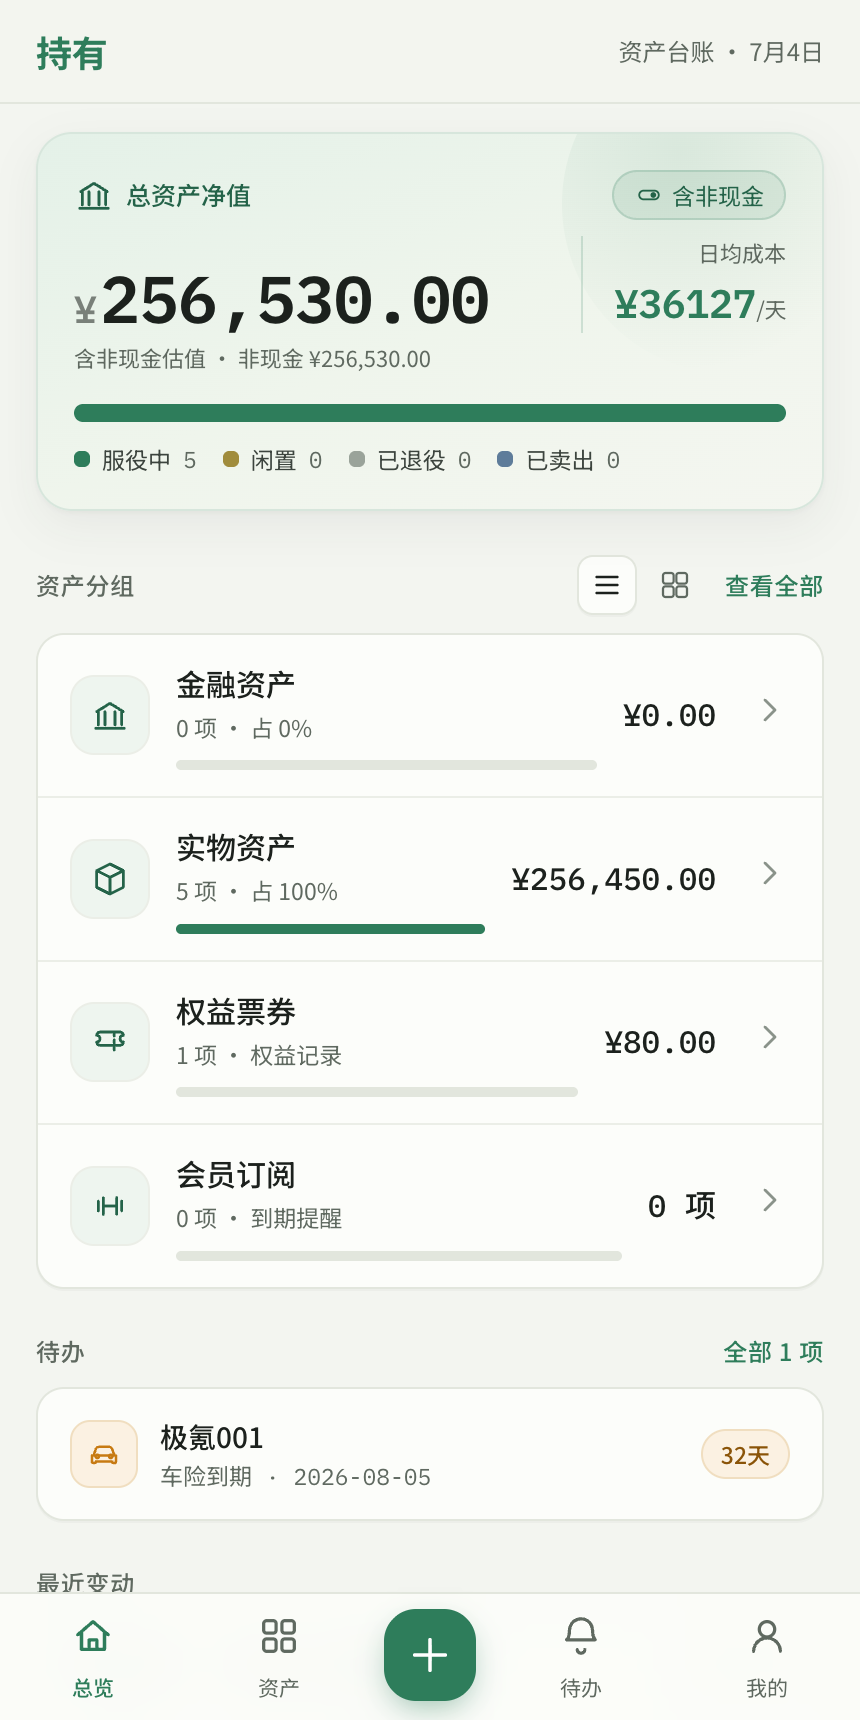
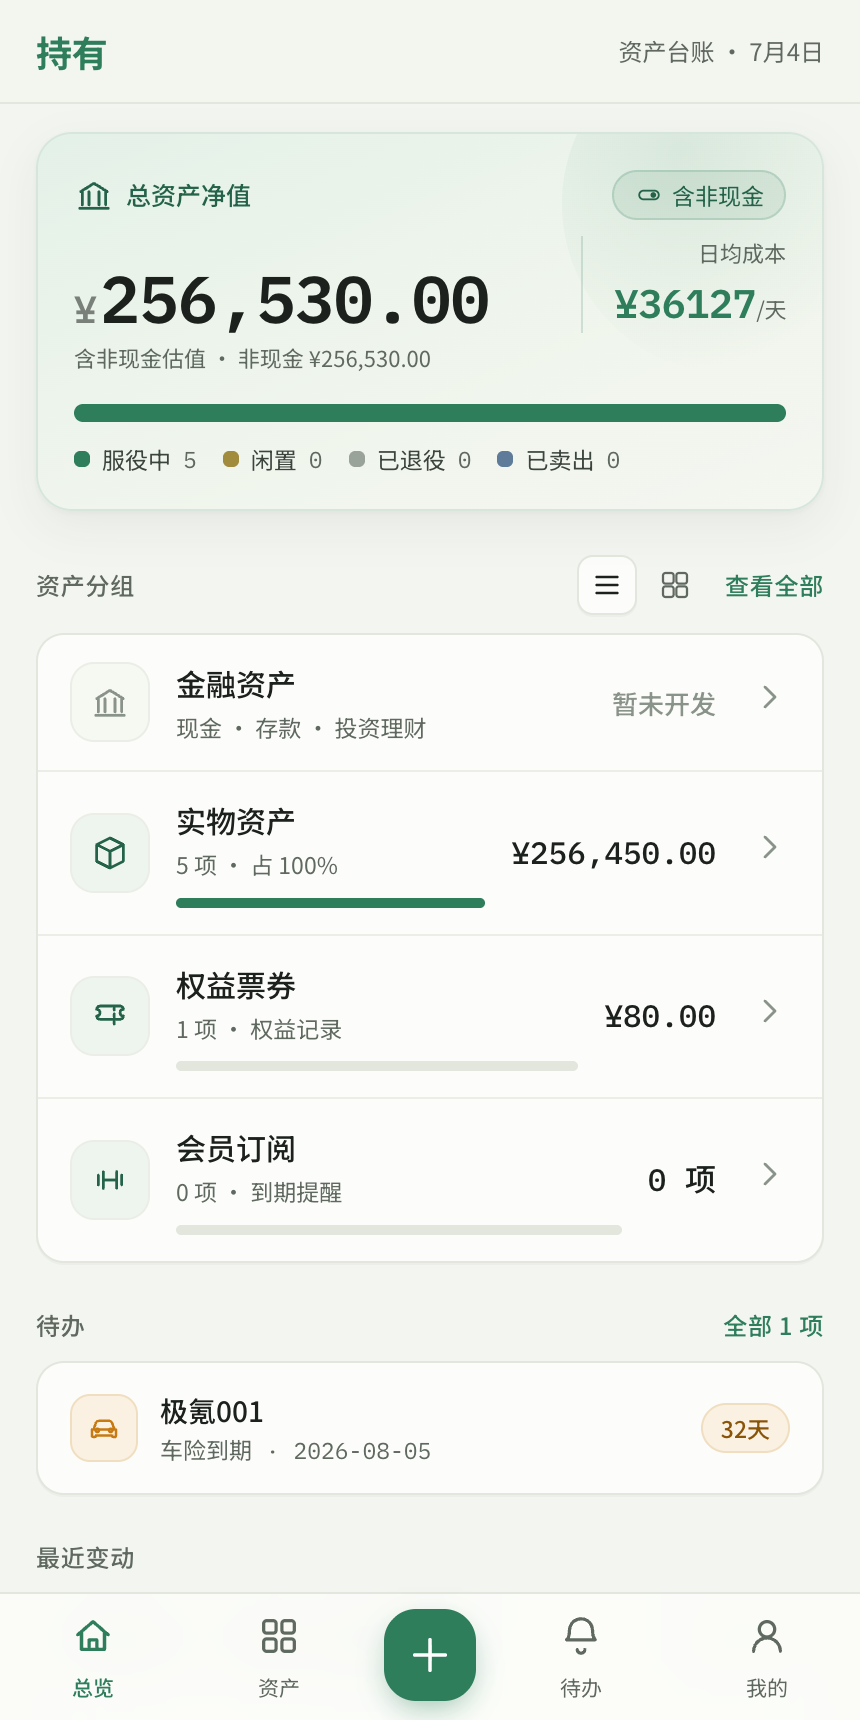
Mark financial assets as upcoming

diff --git a/demo/index.html b/demo/index.html
@@ -466,7 +466,7 @@ function svg(n){return '<svg aria-hidden="true" focusable="false" viewBox="0 0 2
 
 /* groups */
 const GROUPS=[
-  {id:'financial',name:'金融资产',icon:'bank',sub:'现金 · 存款 · 投资理财'},
+  {id:'financial',name:'金融资产',icon:'bank',sub:'现金 · 存款 · 投资理财',placeholder:true,placeholderText:'暂未开发'},
   {id:'physical',name:'实物资产',icon:'box',sub:'数码 · 家居 · 交通'},
   {id:'entitle',name:'权益票券',icon:'ticket',sub:'里程 · 礼品卡 · 票券'},
   {id:'member',name:'会员订阅',icon:'member',sub:'会员 · 订阅 · 到期提醒'},
@@ -684,12 +684,12 @@ function viewOverview(){
   const legend=['active','idle','retired','sold'].map(k=>'<span class="it"><span class="d" style="background:'+segColor[k]+'"></span>'+STATUS[k].label+' <span class="n">'+sc[k]+'</span></span>').join('');
   const nw=netWorth();
   const groups=GROUPS.map(g=>{
-    if(g.placeholder)return '<div class="group-row ph" data-act="nav" data-arg="invest" role="button" tabindex="0" aria-label="投资理财，即将上线"><div class="ic">'+svg(g.icon)+'</div><div class="body"><div class="nm">'+g.name+'</div><div class="sub">'+g.sub+'</div></div><div class="right"><div class="val">即将上线</div></div><div class="chev">'+svg('chevR')+'</div></div>';
+    if(g.placeholder){const p=g.placeholderText||'即将上线';return '<div class="group-row ph" data-act="nav" data-arg="invest" role="button" tabindex="0" aria-label="'+g.name+'，'+p+'"><div class="ic">'+svg(g.icon)+'</div><div class="body"><div class="nm">'+g.name+'</div><div class="sub">'+g.sub+'</div></div><div class="right"><div class="val">'+p+'</div></div><div class="chev">'+svg('chevR')+'</div></div>';}
     const v=groupValue(g.id),cnt=groupAssets(g.id).length,pct=pctOf(v,nw);
     return '<div class="group-row" data-act="group" data-arg="'+g.id+'" role="button" tabindex="0" aria-label="'+g.name+'，'+groupValueText(g.id,v)+'"><div class="ic">'+svg(g.icon)+'</div><div class="body"><div class="nm">'+g.name+'</div><div class="sub">'+groupSubText(g.id,cnt,pct)+'</div><div class="sharebar"><i style="width:'+pct+'%"></i></div></div><div class="right"><div class="val">'+groupValueText(g.id,v)+'</div></div><div class="chev">'+svg('chevR')+'</div></div>';
   }).join('');
   const groupCards=GROUPS.map(g=>{
-    if(g.placeholder)return '<div class="gcard ph" data-act="nav" data-arg="invest" role="button" tabindex="0" aria-label="投资理财，即将上线"><div class="top"><div class="ic">'+svg(g.icon)+'</div><div class="pct">即将上线</div></div><div class="nm">'+g.name+'</div><div class="cnt">'+g.sub+'</div><div class="val">— —</div><div class="sharebar"><i style="width:0%"></i></div></div>';
+    if(g.placeholder){const p=g.placeholderText||'即将上线';return '<div class="gcard ph" data-act="nav" data-arg="invest" role="button" tabindex="0" aria-label="'+g.name+'，'+p+'"><div class="top"><div class="ic">'+svg(g.icon)+'</div><div class="pct">'+p+'</div></div><div class="nm">'+g.name+'</div><div class="cnt">'+g.sub+'</div><div class="val">— —</div><div class="sharebar"><i style="width:0%"></i></div></div>';}
     const v=groupValue(g.id),cnt=groupAssets(g.id).length,pct=pctOf(v,nw);
     return '<div class="gcard" data-act="group" data-arg="'+g.id+'" role="button" tabindex="0" aria-label="'+g.name+'，'+groupValueText(g.id,v)+'"><div class="top"><div class="ic">'+svg(g.icon)+'</div><div class="pct">'+groupPctText(g.id,pct,v)+'</div></div><div class="nm">'+g.name+'</div><div class="cnt">'+groupSubText(g.id,cnt,pct)+'</div><div class="val num">'+groupValueText(g.id,v)+'</div><div class="sharebar"><i style="width:'+pct+'%"></i></div></div>';
   }).join('');
@@ -941,8 +941,8 @@ function viewAction(){
 
 /* ---------- Invest placeholder ---------- */
 function viewInvest(){
-  appbar('投资理财',{back:'overview'});
-  setScreen('<div class="empty-big"><div class="ic">'+svg('invest')+'</div><div class="t">投资理财 · 即将上线</div><div class="d">持仓、成本、市值与盈亏的统一视图，<br/>正在路上。先添加现金、实物与权益资产吧。</div><a class="cta" data-act="nav" data-arg="action" role="button" tabindex="0">去添加资产</a></div>');
+  appbar('金融资产',{back:'overview'});
+  setScreen('<div class="empty-big"><div class="ic">'+svg('bank')+'</div><div class="t">金融资产 · 暂未开发</div><div class="d">现金、存款、基金和持仓需要单独的账户与收益口径，<br/>暂不混入当前资产生命周期视图。</div></div>');
 }
 
 /* ---------- Me ---------- */

diff --git a/reports/seeded_initialization_REPORT.html b/reports/seeded_initialization_REPORT.html
@@ -101,7 +101,7 @@
     <thead><tr><th>Metric</th><th>Value</th></tr></thead>
     <tbody>
       <tr><td>总资产净值</td><td><code>¥256,530.00</code></td></tr>
-      <tr><td>金融资产</td><td><code>0 项 · ¥0.00</code></td></tr>
+      <tr><td>金融资产</td><td><code>暂未开发</code></td></tr>
       <tr><td>实物资产</td><td><code>5 项 · ¥256,450.00</code></td></tr>
       <tr><td>权益票券</td><td><code>1 项 · ¥80.00</code></td></tr>
       <tr><td>会员订阅</td><td><code>0 项 · 到期提醒</code></td></tr>
@@ -126,7 +126,7 @@
     <thead><tr><th>Area</th><th>Change</th><th>Result</th></tr></thead>
     <tbody>
       <tr><td>初始化数据</td><td><code>DEFAULT_ASSETS</code> 改为此前记录过的资产集合</td><td>新安装/新用户目录首次打开即显示资产台账</td></tr>
-      <tr><td>资产分组</td><td>现金类并入「金融资产」，会员从「权益票券」拆到「会员订阅」</td><td>总览分类更贴近真实资产管理口径</td></tr>
+      <tr><td>资产分组</td><td>金融资产设为「暂未开发」，会员从「权益票券」拆到「会员订阅」</td><td>金融资产不混入当前实物/权益生命周期口径</td></tr>
       <tr><td>实物分类</td><td>智能表归入「数码」，取消单独「腕表」筛选</td><td>GT 6 等可穿戴设备与数码资产保持一致</td></tr>
       <tr><td>本机数据隔离</td><td>IndexedDB 名称改为 <code>youshu_ledger_seeded_v4</code></td><td>避免混入前几轮误初始化数据</td></tr>
       <tr><td>重置入口</td><td>「清空本机数据」改为「恢复初始化数据」</td><td>语义匹配当前初始化版本</td></tr>

diff --git a/reports/seeded_initialization_REPORT.md b/reports/seeded_initialization_REPORT.md
@@ -9,7 +9,7 @@
 | Metric | Value |
 | --- | --- |
 | 总资产净值 | `¥256,530.00` |
-| 金融资产 | `0 项 · ¥0.00` |
+| 金融资产 | `暂未开发` |
 | 实物资产 | `5 项 · ¥256,450.00` |
 | 权益票券 | `1 项 · ¥80.00` |
 | 会员订阅 | `0 项 · 到期提醒` |
@@ -30,7 +30,7 @@
 | Area | Change | Result |
 | --- | --- | --- |
 | 初始化数据 | `DEFAULT_ASSETS` 改为此前记录过的资产集合 | 新安装/新用户目录首次打开即显示资产台账 |
-| 资产分组 | 现金类并入「金融资产」，会员从「权益票券」拆到「会员订阅」 | 总览分类更贴近真实资产管理口径 |
+| 资产分组 | 金融资产设为「暂未开发」，会员从「权益票券」拆到「会员订阅」 | 金融资产不混入当前实物/权益生命周期口径 |
 | 实物分类 | 智能表归入「数码」，取消单独「腕表」筛选 | GT 6 等可穿戴设备与数码资产保持一致 |
 | 本机数据隔离 | IndexedDB 名称改为 `youshu_ledger_seeded_v4` | 避免混入前几轮误初始化数据 |
 | 重置入口 | 「清空本机数据」改为「恢复初始化数据」 | 语义匹配当前初始化版本 |
